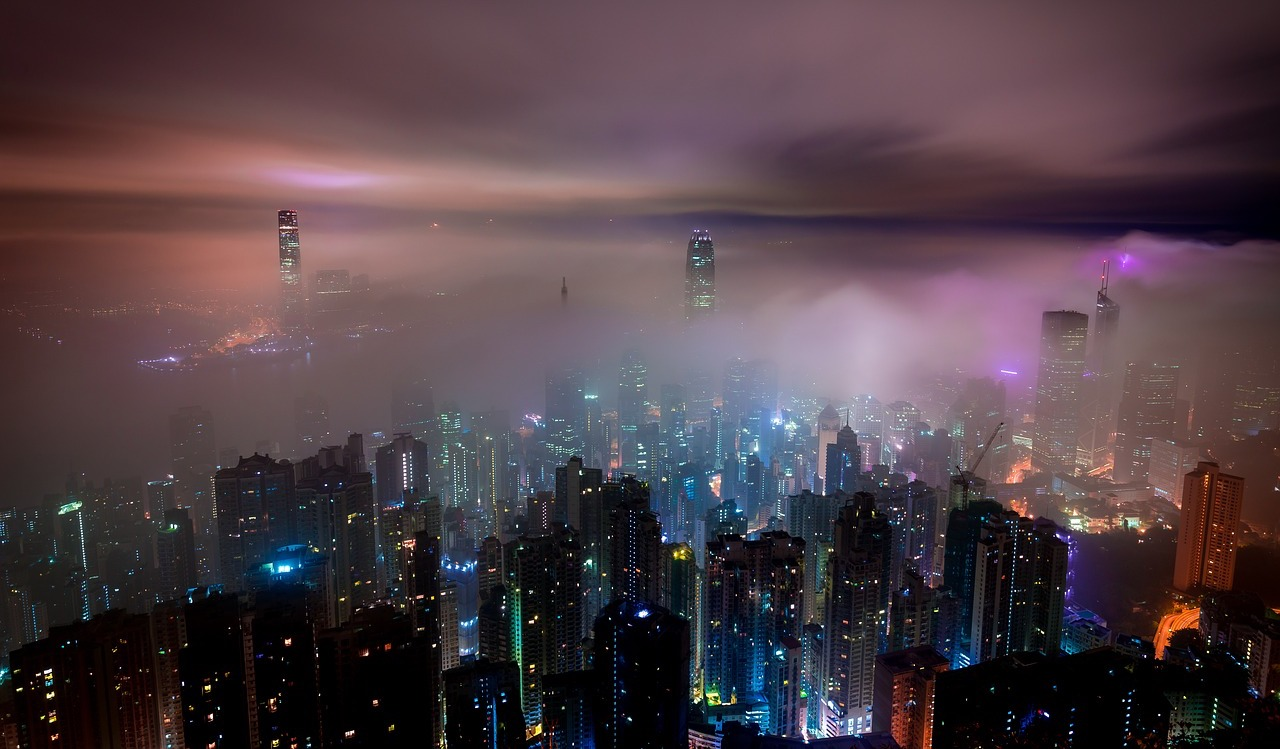
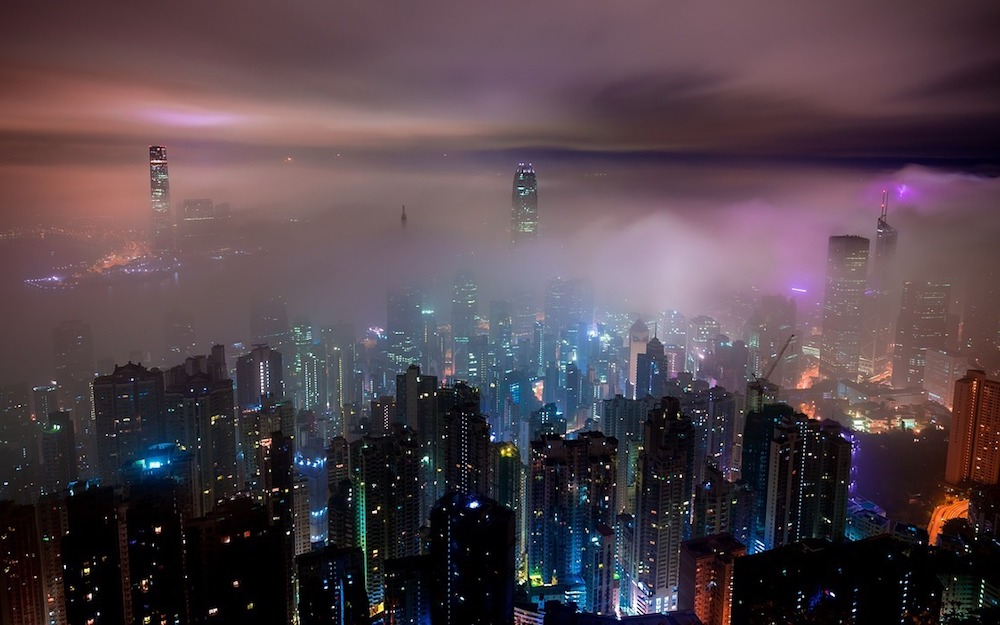
updating pics

diff --git a/home.html b/home.html
@@ -354,7 +354,7 @@ var trackOutboundLink = function(url) {
                           </div>
                         
                     </div>
-                    <p style="text-align: right;margin-top: -15px;"><a style="font-size: 17px; color: DodgerBlue" id="expand2" class="btn" data-toggle="collapse" data-target="#viewskills" onclick="changeText('expand2')">View More &#8681</a></p>
+                    <p style="text-align: right;margin-top: -8px;"><a style="font-size: 17px; color: DodgerBlue" id="expand2" class="btn" data-toggle="collapse" data-target="#viewskills" onclick="changeText('expand2')">View More &#8681</a></p>
                 </div>
 
               
@@ -364,7 +364,7 @@ var trackOutboundLink = function(url) {
     <div id="skills" class="container-fluid">
       <div >
           <div class="col-md-12 collapse" id="viewskills" style="padding-top: 20px; padding-bottom: 20px">
-            <h1 style="text-align: center;text-shadow: #777 3px 2px 2px;"> LANGUAGES & TOOLS</h1>
+            <h1 style="margin-top: 0;text-align: center;text-shadow: #777 3px 2px 2px;"> LANGUAGES & TOOLS</h1>
               <img style="width: 100%;"src="pictures/all_skills.png">
           </div>
       </div>
@@ -436,7 +436,7 @@ var trackOutboundLink = function(url) {
                           </div>
                         
                     </div>
-                    <p style="text-align: right; margin-top: -15px;"><a style="font-size: 17px; color: DodgerBlue " id="expand" class="btn" data-toggle="collapse" data-target="#viewmore" onclick="changeText('expand')">View More &#8681</a></p>
+                    <p style="text-align: right; margin-top: -5px;"><a style="font-size: 17px; color: DodgerBlue " id="expand" class="btn" data-toggle="collapse" data-target="#viewmore" onclick="changeText('expand')">View More &#8681</a></p>
                 </div>
 
                 <div class="col-xs-12 col-sm-4 col-md-4 collapse" id="viewmore" >

diff --git a/css/style.css b/css/style.css
@@ -140,7 +140,7 @@ color: #fff !important;
 }
 
 #myCarousel.carousel:hover{
-  width: 95%;
+  width: 98%;
 }
 
 
@@ -240,7 +240,7 @@ color: #fff !important;
 
   #section3 {
     padding-top:0px;
-    padding-bottom: 10px;
+    padding-bottom: 20px;
     color: #fff; 
     height:auto;
     background: linear-gradient(45deg, rgba(28,28,28,1) 0%,rgba(51,51,51,1) 17%,rgba(102,102,102,1) 29%,rgba(71,71,71,1) 39%,rgba(44,44,44,1) 50%,rgba(17,17,17,1) 60%,rgba(79,79,79,1) 78%,rgba(28,28,28,1) 91%,rgba(19,19,19,1) 100%);
@@ -308,7 +308,7 @@ color: #fff !important;
 
   #section41 {
     color: black; 
-    padding-bottom: 10px;
+    padding-bottom: 15px;
     height:auto;
     background: linear-gradient(to bottom, rgba(252,252,252,1) 0%,rgba(252,252,252,1) 41%,rgba(252,252,252,1) 63%,rgba(209,209,209,1) 83%,rgba(254,254,254,1) 90%,rgba(181,181,181,1) 100%);
   }
@@ -425,7 +425,7 @@ color: #fff !important;
     
     color: #fff; 
     height:300px;
-    background-image: url('../pictures/city.jpg');
+    background-image: url('../pictures/hong_kong.jpg');
     width: 100%;
     /* Create the parallax scrolling effect */
     background-attachment: fixed;
